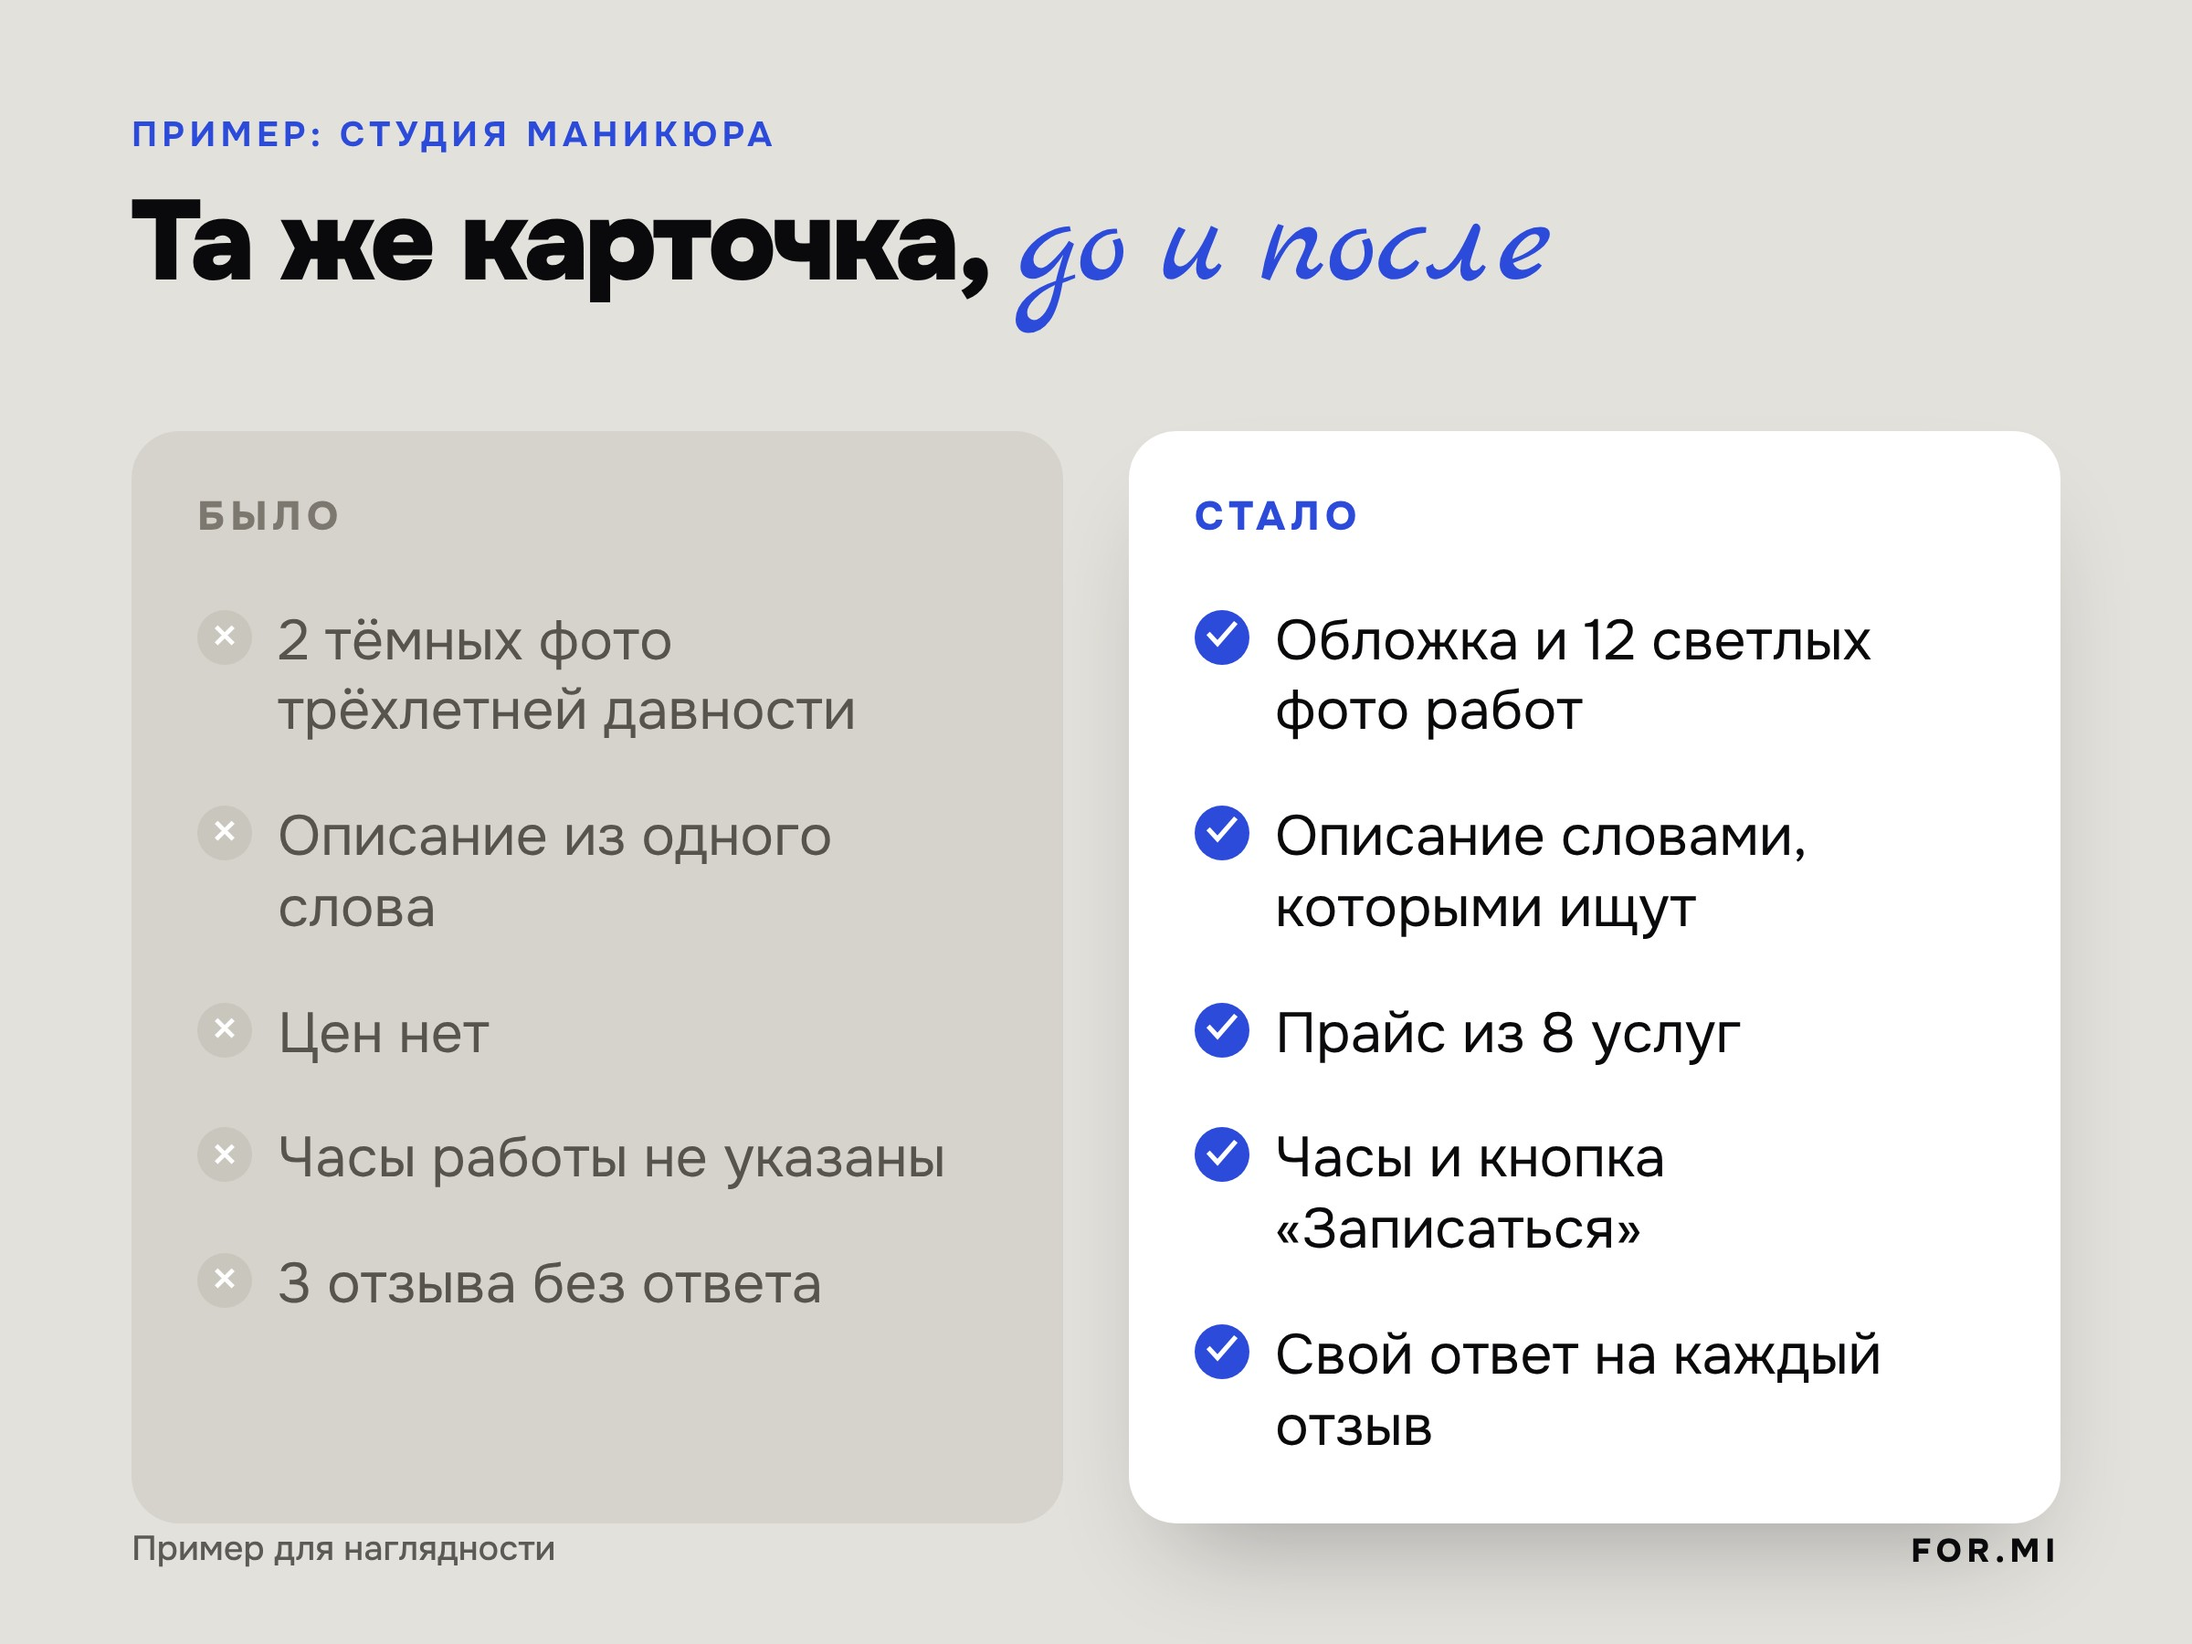
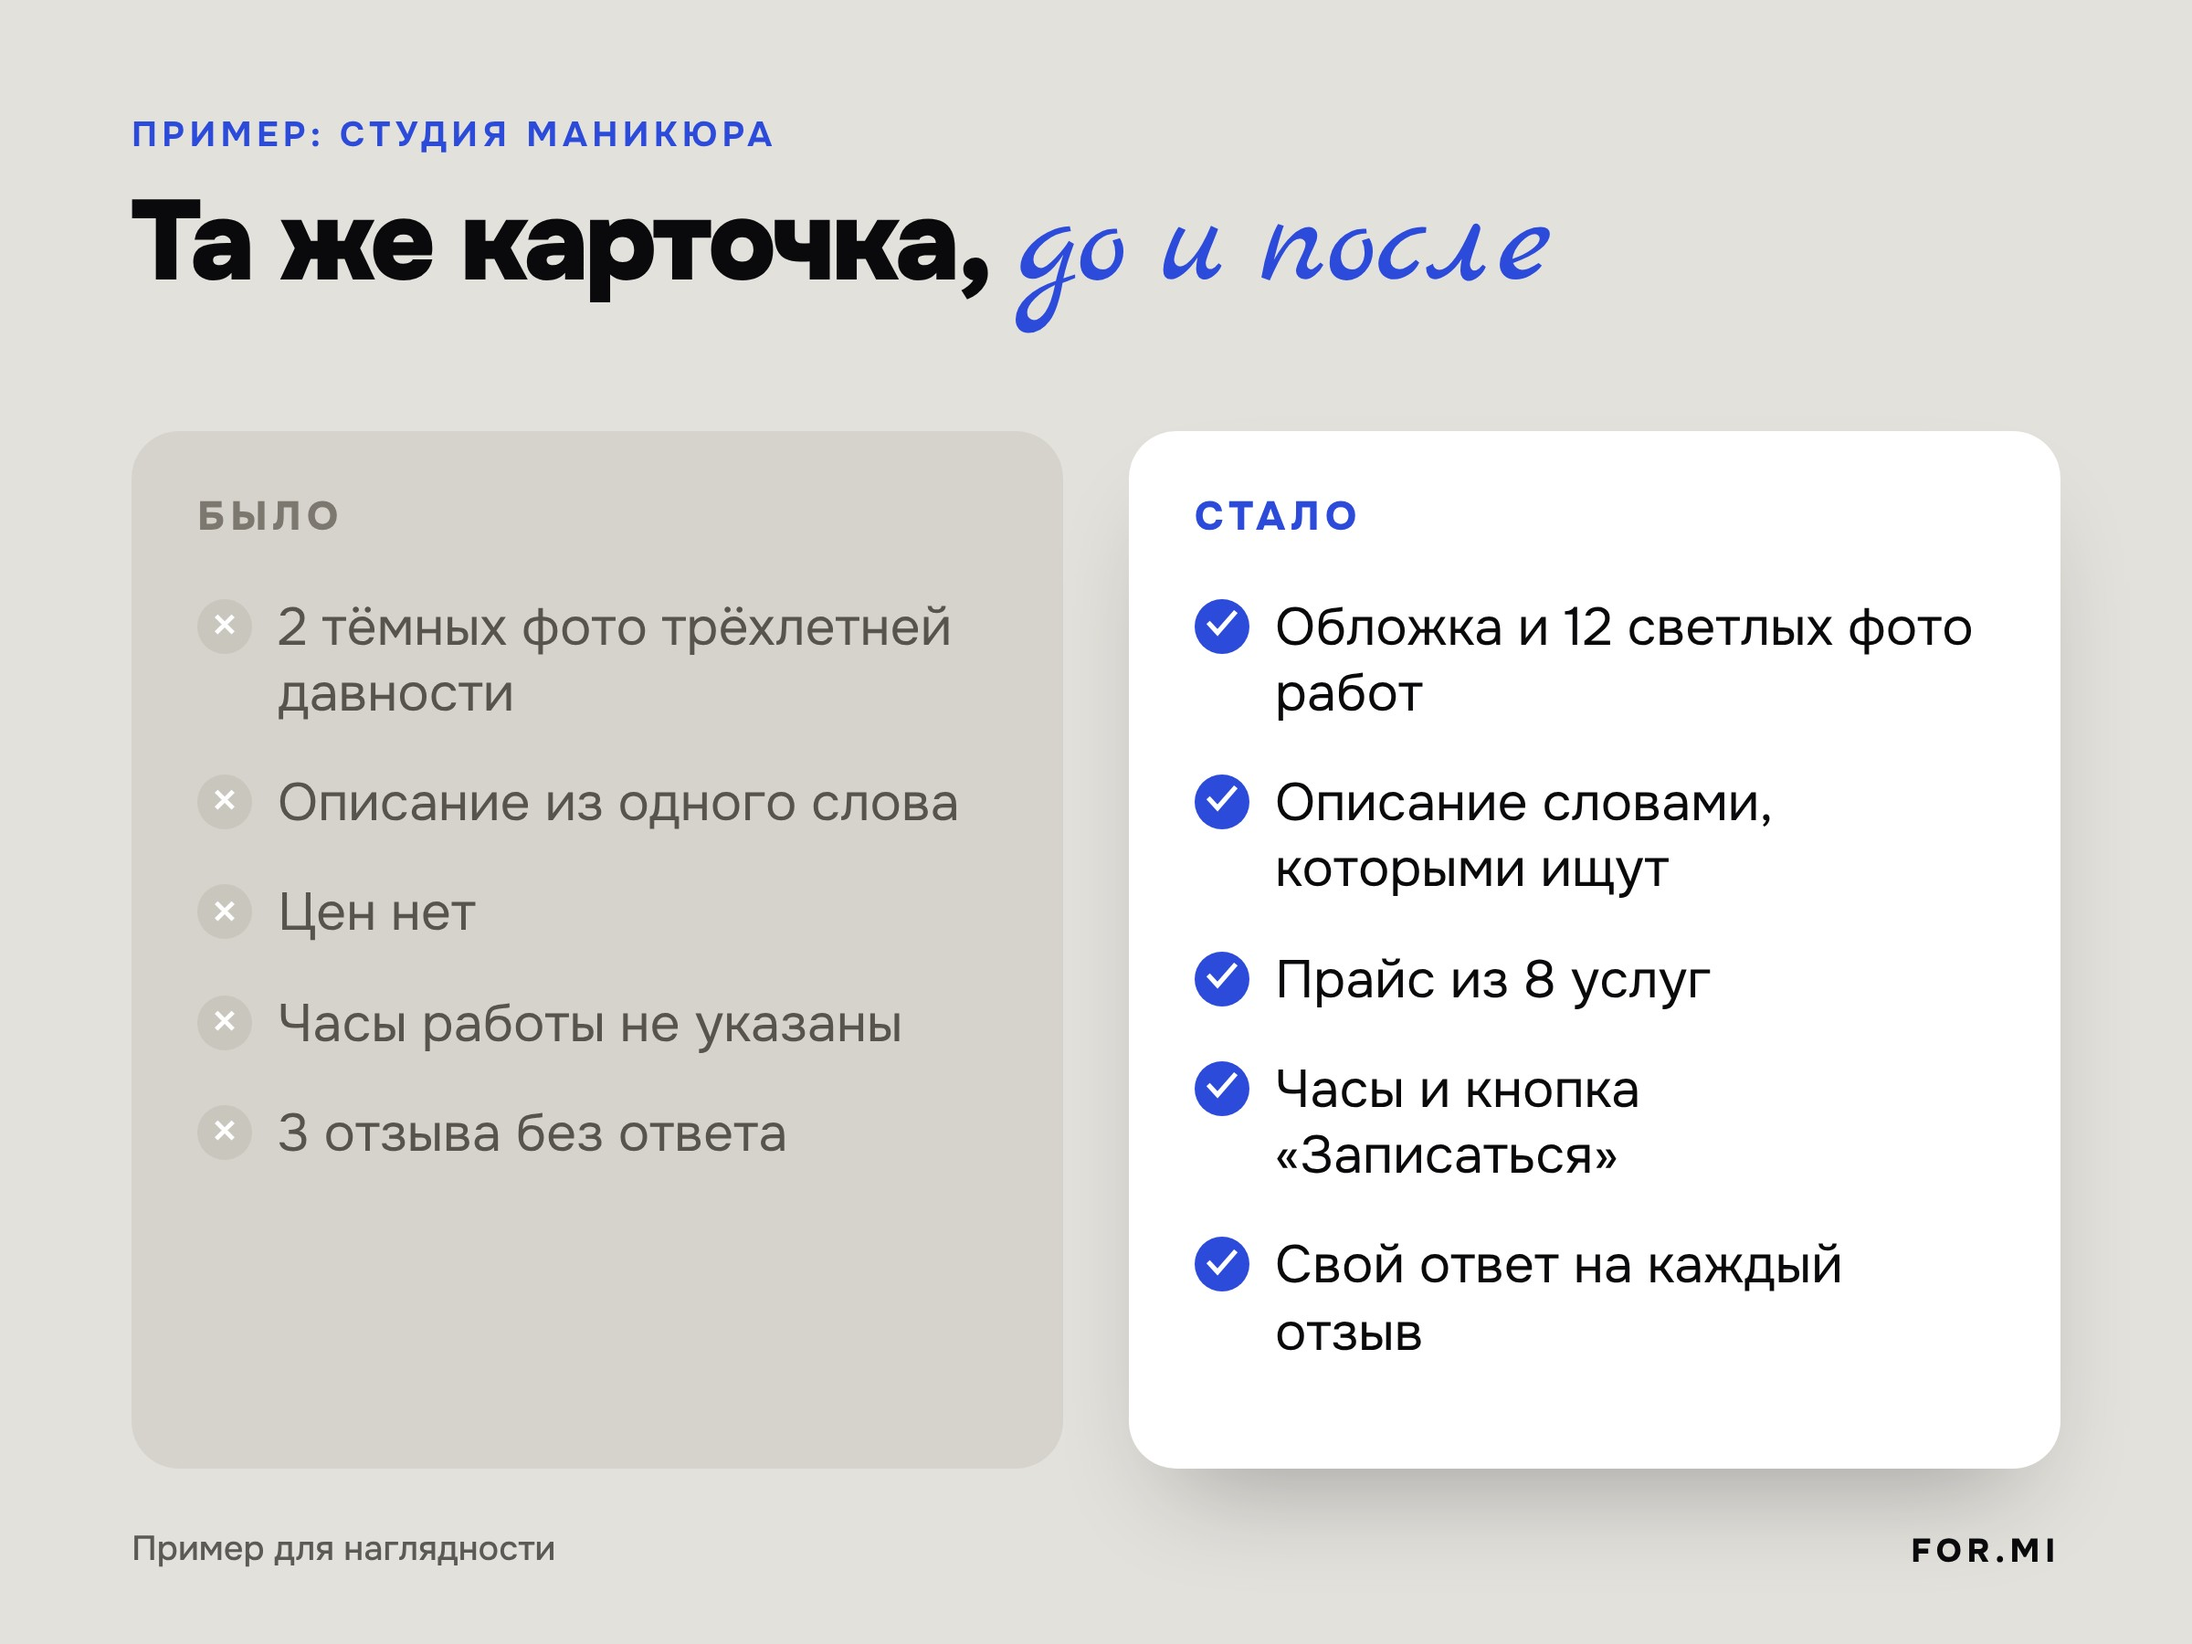
Авито: текст в «до и после» помещается в карточки
Claude-Session: https://claude.ai/code/session_01MqcZMHdjeZFFUuT8aB5MzJ

diff --git a/_instrumenty/avito.js b/_instrumenty/avito.js
@@ -161,7 +161,7 @@ const xmark=t=>`<div style="display:flex;gap:14px;align-items:flex-start"><span 
 const vmark=t=>`<div style="display:flex;gap:14px;align-items:flex-start"><span style="flex:none;width:30px;height:30px;border-radius:50%;background:${C.blue};color:#fff;display:grid;place-items:center;font-size:17px;font-weight:800;margin-top:2px">✓</span><span>${t}</span></div>`;
 const kartyDoPosleHtml=()=>`<!doctype html><html lang="ru"><head>${head}
 <style>.row{position:absolute;left:72px;right:72px;top:236px;bottom:96px;display:grid;grid-template-columns:1fr 1fr;gap:36px}
-.cd{border-radius:26px;padding:34px 36px;display:grid;align-content:start;gap:30px;font-size:31px;line-height:1.25}
+.cd{border-radius:26px;padding:34px 36px;display:grid;align-content:start;gap:24px;font-size:29px;line-height:1.25}
 .cd h3{margin:0 0 4px;font-size:22px;font-weight:800;letter-spacing:.14em;text-transform:uppercase}</style>
 </head><body><div class="c">
 <div style="position:absolute;left:72px;top:62px;display:grid;gap:10px">
